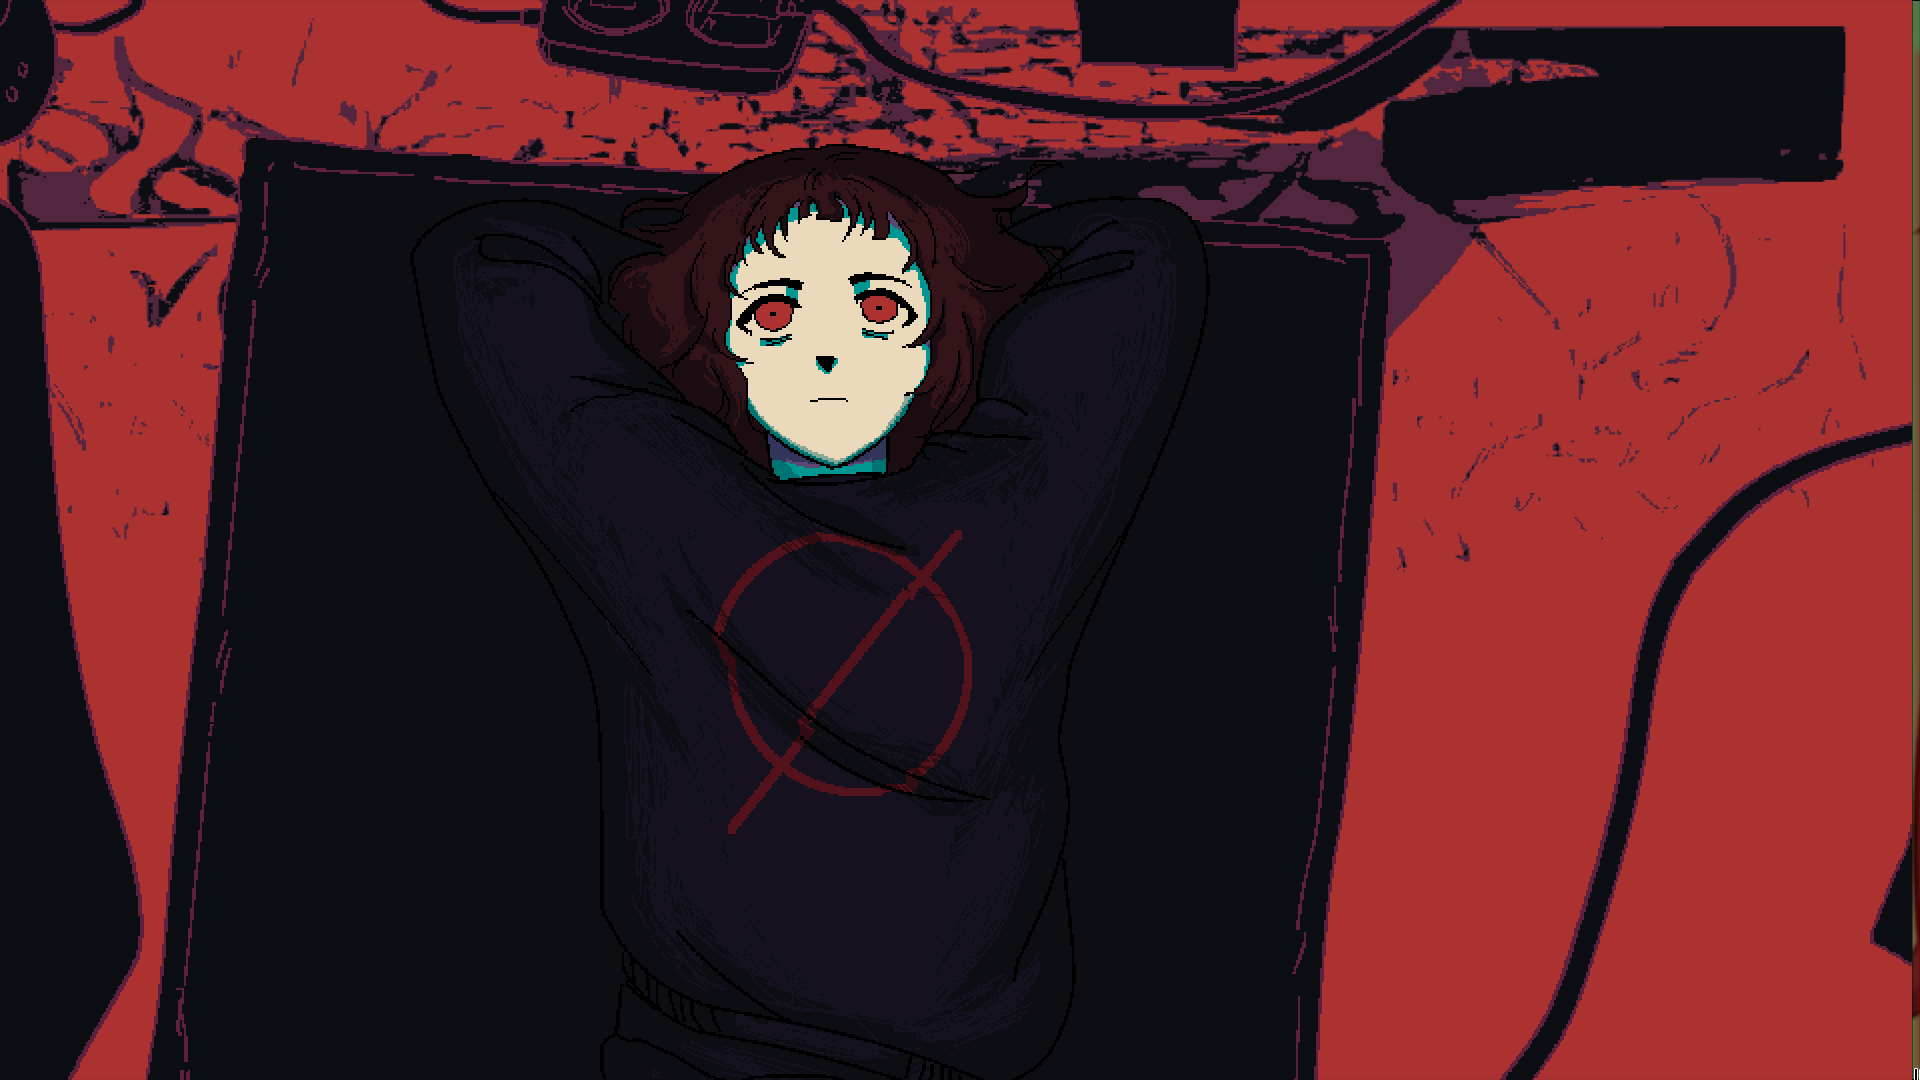
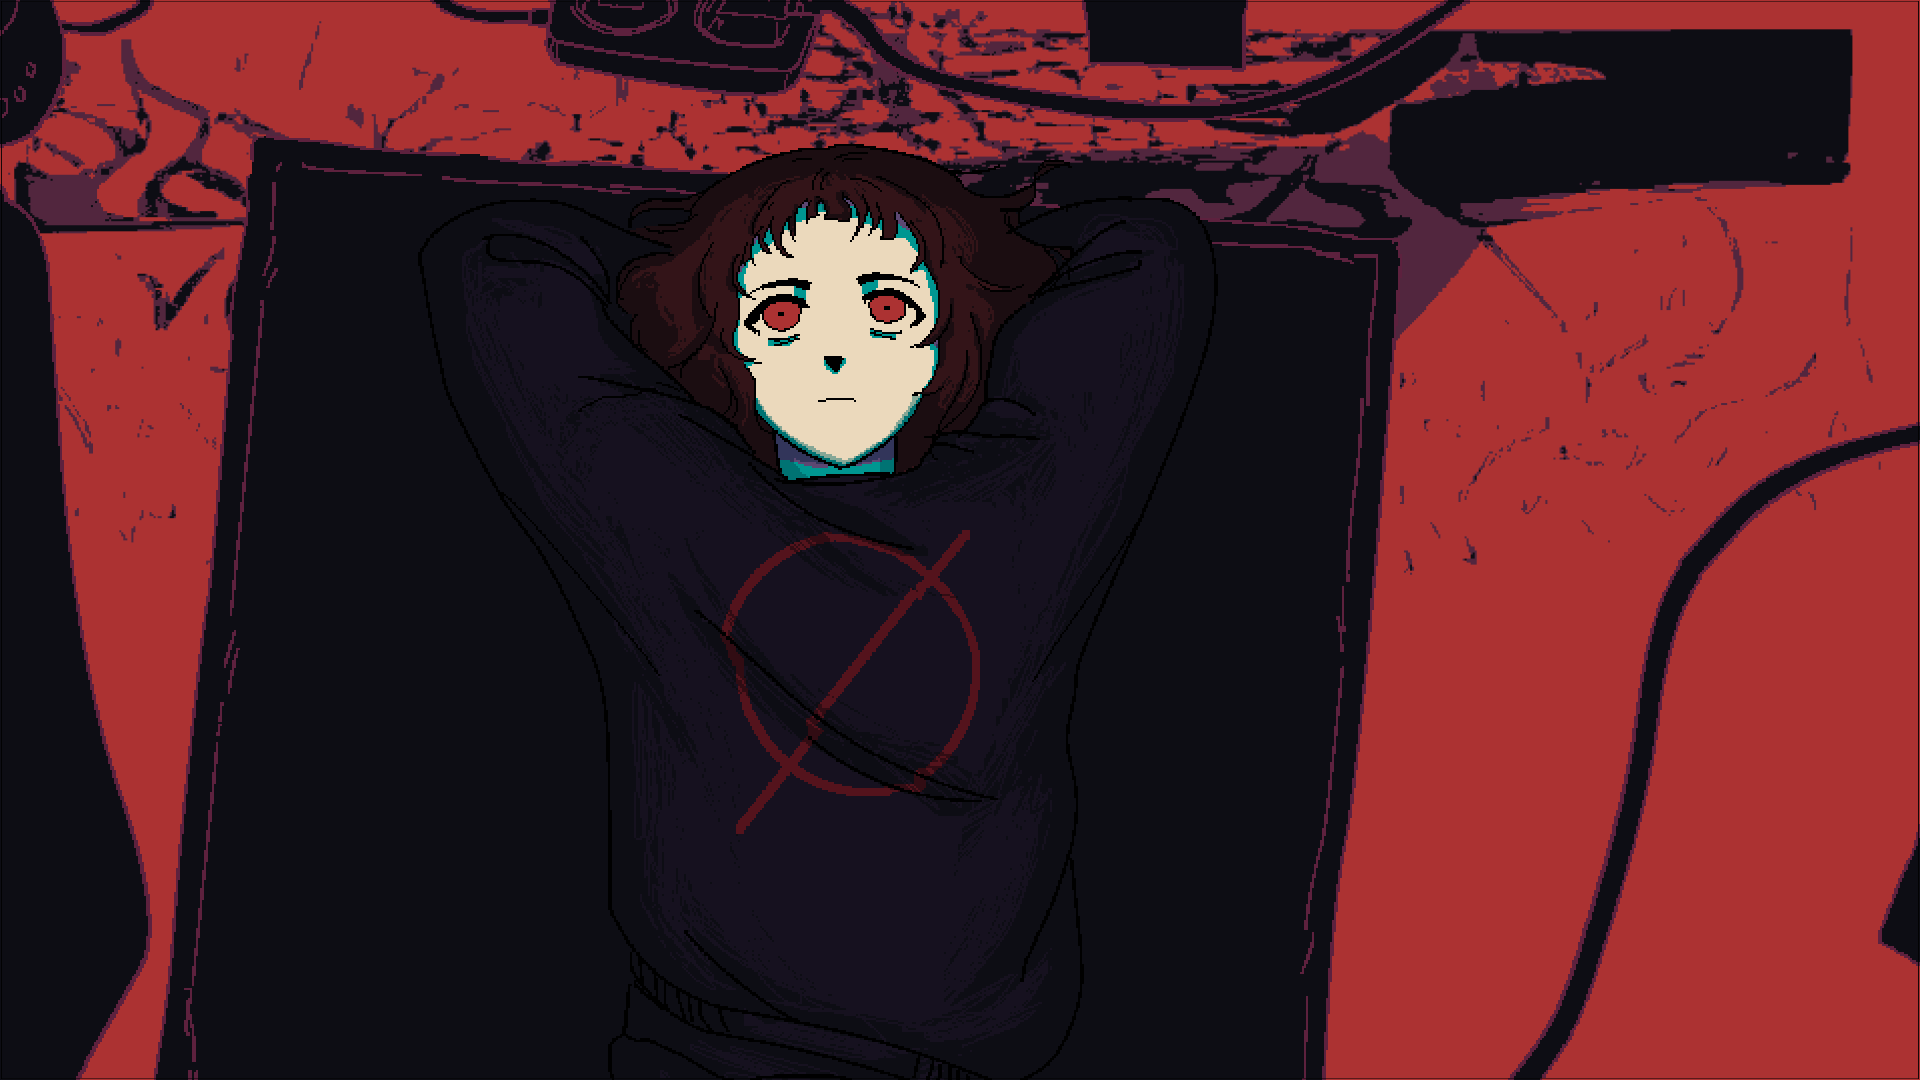
rofi menu upgrade, waybar styling and new WALLPAPERS

diff --git a/.config/waybar/style.css b/.config/waybar/style.css
@@ -1,123 +1,116 @@
 * {
-  /* General taskbar font, I like maple mono ^-^*/
-  font-family: Maple Mono;
-  border-radius: 8;
+  font-family: "Maple Mono", "JetBrainsMono Nerd Font", "Font Awesome 6 Free";
+  border-radius: 8px;
   font-size: 13px;
   padding: 0px;
   background: transparent;
 }
 
 window#waybar {
-  /* Linear gradients are used because it makes less harsh rounded border radius, gtk bug :p */
-  background-color: rgba(20, 18, 22, 0.7);
-
+  /* softer rounded look */
+  background-color: rgba(50, 0, 20, 0.7); /* dark red/magenta base */
   border-radius: 14px;
   padding: 0px;
   border-style: none;
 }
 
-#battery,
+/* modules */
 #network,
 #clock,
 #custom-applauncher,
 #tray,
 #workspaces,
 #pulseaudio {
-  background-color: rgba(20, 18, 22, 0.2);
+  background-color: rgba(180, 0, 40, 0.2); /* deep red with transparency */
 
   margin: 6px;
   margin-right: 0px;
-  padding: 2px 8px;
+
+  padding: 6px 4px;
   border-radius: 8px;
-  color: #d8cab8;
+  color: #f0c0d0; /* lighter magenta-ish text */
 
   border-style: solid;
-  border-color: #d8cab8;
+  border-color: #f0c0d0;
   border-width: 1px;
 
   transition-duration: 120ms;
 }
 
-/*  */
+/* clock */
 #clock {
   margin-right: 6px;
 }
 
 #clock:hover {
-  background-color: rgba(20, 18, 22, 0.7);
-  color: #d8cab8;
+  background-color: rgba(200, 0, 60, 0.7); /* brighter red hover */
+  color: #f0c0d0;
 }
 
+/* audio */
 #pulseaudio:hover {
-  background-color: rgba(20, 18, 22, 0.7);
-  color: #d8cab8;
+  background-color: rgba(200, 0, 60, 0.7);
+  color: #f0c0d0;
   transition-duration: 120ms;
 }
 
+/* app launcher */
 #custom-applauncher {
   font-weight: bold;
   transition-duration: 120ms;
-  padding: 0px 25px 0px 25px;
+  padding: 6px 6px;
 }
+
 #custom-applauncher:hover {
-  background-color: rgba(20, 18, 22, 0.7);
-  color: #d8cab8;
+  background-color: rgba(150, 0, 80, 0.7); /* dark magenta hover */
+  color: #f0c0d0;
   transition-duration: 120ms;
 }
 
+/* tray menu */
 #tray menu {
-  background-color: #141216;
-  color: #d8cab8;
+  background-color: #200010; /* dark red/magenta */
+  color: #f0c0d0;
   padding: 4px;
 }
-#tray menu menuitem {
-  background-image: linear-gradient(to bottom, #27232b 100%);
 
+#tray menu menuitem {
+  background-image: linear-gradient(to bottom, #400020 100%); /* dark gradient */
   margin: 3px;
-  color: #d8cab8;
+  color: #f0c0d0;
   border-radius: 4px;
   border-style: solid;
-  border-color: #27232b;
+  border-color: #400020;
 }
+
 #tray menu menuitem:hover {
-  background-image: linear-gradient(to bottom, #27232b 100%);
-  color: #ac82e9;
+  background-image: linear-gradient(to bottom, #600040 100%);
+  color: #d070c0; /* bright magenta hover */
   font-weight: bold;
 }
 
+/* workspaces */
 #workspaces button {
   transition-duration: 100ms;
   all: initial;
   min-width: 0;
   font-weight: bold;
-  color: #d8cab8;
-  margin-right: 0.2cm;
-  margin-left: 0.2cm;
+  color: #f0c0d0;
+
+  margin: 4px 0;
 }
 
 #workspaces button:hover {
   transition-duration: 120ms;
-  color: #8f56e1;
-}
-#workspaces button.focused {
-  color: #ac82e9;
-  font-weight: bold;
-}
-#workspaces button.active {
-  color: #ac82e9;
-  font-weight: bold;
-}
-#workspaces button.urgent {
-  color: #fcb167;
+  color: #d070c0; /* magenta-ish hover */
 }
 
-#battery {
-  background-color: #222222;
-  color: #1d2021;
+#workspaces button.focused,
+#workspaces button.active {
+  color: #a03060; /* deep red/magenta */
+  font-weight: bold;
 }
-#battery.warning,
-#battery.critical,
-#battery.urgent {
-  color: #1d2021;
-  background-color: #fc4649;
+
+#workspaces button.urgent {
+  color: #ff4040; /* bright red for urgent */
 }
